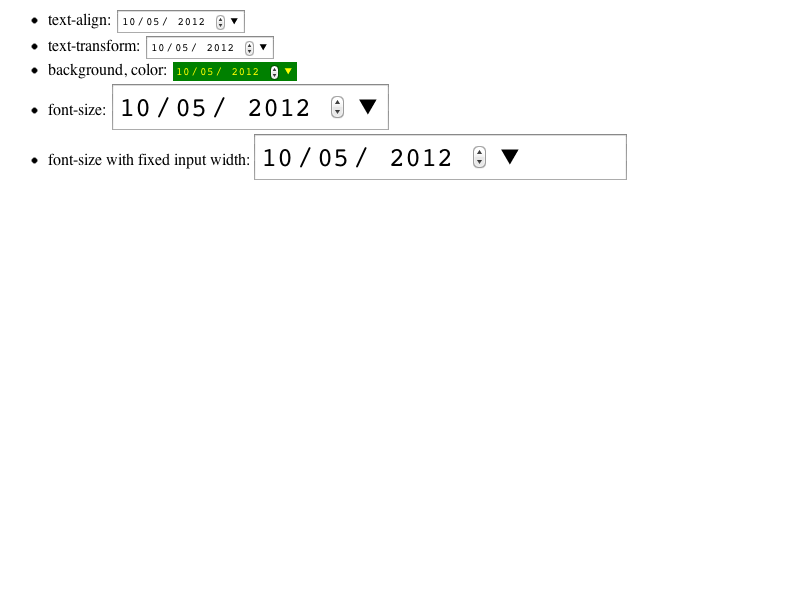
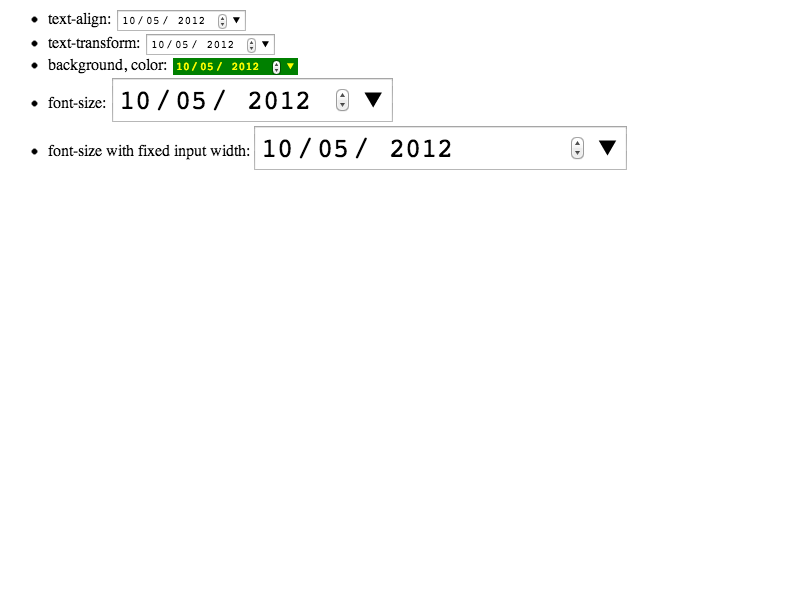
Fix some appearance glitches of multiple fields input elements https://bugs.webkit.org/show_bug.cgi?id=99412
Reviewed by Kentaro Hara.

Source/WebCore:

1. If CSS-specified width is wider than the intrinsic width of an input,
the spin button and the picker indicator triangle should be put at the
right side of the content area.

2. Remove top, right, and bottom paddings to match input[type=number]
appearance as possible.

3. Remove unnecessary position:relative for spin buttons.

4. Center content vertically if the height is taller than the intrinsic height.

Tests: Update all of rendering tests for input element with multiple fields UI.

* css/html.css:
(input[type="date"]):
- Specify display:-webkit-inline-flex and -webkit-align-items:stretch to center contents.
- Remove top/right/bottom paddings.
(input[type="datetime"]): Ditto.
(input[type="datetime-local"]): Ditto.
(input[type="month"]): Ditto.
(input[type="time"]): Ditto.
(input[type="week"]): Ditto.
(input::-webkit-datetime-edit):
- Switch to the starndard flexible box from the legacy one.
- Add white-space:pre to avoid to collapse white spaces.
(input::-webkit-datetime-edit-gap):
Added. This element is added to push a spin button to the right side.
(input::-webkit-date-and-time-container):
Add -webkit-flex:1 for the input flexible box.
Sort properties.
(input[type="week"]::-webkit-inner-spin-button):
- Use this in date, datetime, datetime-local, and week types.
- Add display:inline-block because other elements in -webkit-datetime-edit is inilne.
- Add position:static to cancel position:relative below.
[…]

Changed region(s): [[0.0312, 0.0, 0.7812, 0.3]]

diff --git a/Source/WebCore/css/html.css b/Source/WebCore/css/html.css
@@ -479,39 +479,59 @@ datalist {
 #if defined(ENABLE_INPUT_MULTIPLE_FIELDS_UI) && ENABLE_INPUT_MULTIPLE_FIELDS_UI
 #if defined(ENABLE_INPUT_TYPE_DATE) && ENABLE_INPUT_TYPE_DATE
 input[type="date"] {
+    -webkit-align-items: stretch;
+    display: -webkit-inline-flex;
     font-family: monospace;
+    padding: 0 0 0 1px;
 }
 #endif
 #if defined(ENABLE_INPUT_TYPE_DATETIME) && ENABLE_INPUT_TYPE_DATETIME
 input[type="datetime"] {
+    -webkit-align-items: stretch;
+    display: -webkit-inline-flex;
     font-family: monospace;
+    padding: 0 0 0 1px;
 }
 #endif
 #if defined(ENABLE_INPUT_TYPE_DATETIMELOCAL) && ENABLE_INPUT_TYPE_DATETIMELOCAL
 input[type="datetime-local"] {
+    -webkit-align-items: stretch;
+    display: -webkit-inline-flex;
     font-family: monospace;
+    padding: 0 0 0 1px;
 }
 #endif
 #if defined(ENABLE_INPUT_TYPE_MONTH) && ENABLE_INPUT_TYPE_MONTH
 input[type="month"] {
+    -webkit-align-items: stretch;
+    display: -webkit-inline-flex;
     font-family: monospace;
+    padding: 0 0 0 1px;
 }
 #endif
 #if defined(ENABLE_INPUT_TYPE_TIME) && ENABLE_INPUT_TYPE_TIME
 input[type="time"] {
+    -webkit-align-items: stretch;
+    display: -webkit-inline-flex;
     font-family: monospace;
+    padding: 0 0 0 1px;
 }
 #endif
 #if defined(ENABLE_INPUT_TYPE_WEEK) && ENABLE_INPUT_TYPE_WEEK
 input[type="week"] {
+    -webkit-align-items: stretch;
+    display: -webkit-inline-flex;
     font-family: monospace;
+    padding: 0 0 0 1px;
 }
 #endif
 
 input::-webkit-datetime-edit {
+    -webkit-align-items: center;
+    -webkit-flex: 1;
     -webkit-user-modify: read-only !important;
-    display: -webkit-box;
-    -webkit-box-align: center;
+    display: -webkit-flex;
+    white-space: pre;
 }
 
 input::-webkit-datetime-edit-ampm-field {
@@ -591,9 +611,16 @@ input::-webkit-datetime-edit-year-field {
     padding: 0.15em;
 }
 
+input::-webkit-datetime-edit-gap {
+    -webkit-flex: 1;
+    -webkit-user-modify: read-only !important;
+    display: inline-block;
+}
+
 input::-webkit-date-and-time-container {
-    display: -webkit-flex;
     -webkit-align-items: center;
+    -webkit-flex: 1;
+    display: -webkit-flex;
 }
 
 /* Remove focus ring from fields and use highlight color */
@@ -616,9 +643,15 @@ input::-webkit-datetime-edit-second-field[readonly] {
     color: GrayText;
 }
 
+input[type="date"]::-webkit-inner-spin-button,
+input[type="datetime"]::-webkit-inner-spin-button,
+input[type="datetime-local"]::-webkit-inner-spin-button,
 input[type="month"]::-webkit-inner-spin-button,
-input[type="time"]::-webkit-inner-spin-button {
+input[type="time"]::-webkit-inner-spin-button,
+input[type="week"]::-webkit-inner-spin-button {
+    display: inline-block;
     margin-left: 0.2em;
+    position: static;
 }
 #endif
 

diff --git a/LayoutTests/fast/forms/time-multiple-fields/time-multiple-fields-appearance-style.html b/LayoutTests/fast/forms/time-multiple-fields/time-multiple-fields-appearance-style.html
@@ -6,11 +6,11 @@
     <li>background, color: <input type="time" value="12:34" style="border: 0px; background: green; color: yellow"></li>
     <li>font-size: <input type="time" value="12:34" style="font-size: 20pt"></li>
     <li>font-size with fixed input width: <input type="time" value="12:34" style="font-size: 20pt; width: 10em;"></li>
+    <li>Fixed input height: <input type="time" value="12:34" style="height: 4em;"></li>
 </ul>
-</body>
 <script>
-if (window.testRunner) {
+if (window.testRunner)
     testRunner.dumpAsText(true);
-}
 </script>
+</body>
 </html>

diff --git a/Source/WebCore/html/shadow/DateTimeEditElement.cpp b/Source/WebCore/html/shadow/DateTimeEditElement.cpp
@@ -396,6 +396,10 @@ void DateTimeEditElement::layout(const LayoutParameters& layoutParameters, const
         }
     }
 
+    DEFINE_STATIC_LOCAL(AtomicString, gapPseudoId, ("-webkit-datetime-edit-gap", AtomicString::ConstructFromLiteral));
+    RefPtr<HTMLDivElement> gapElement = HTMLDivElement::create(document());
+    gapElement->setShadowPseudoId(gapPseudoId);
+    appendChild(gapElement);
     RefPtr<SpinButtonElement> spinButton = SpinButtonElement::create(document(), *this);
     m_spinButton = spinButton.get();
     appendChild(spinButton);
